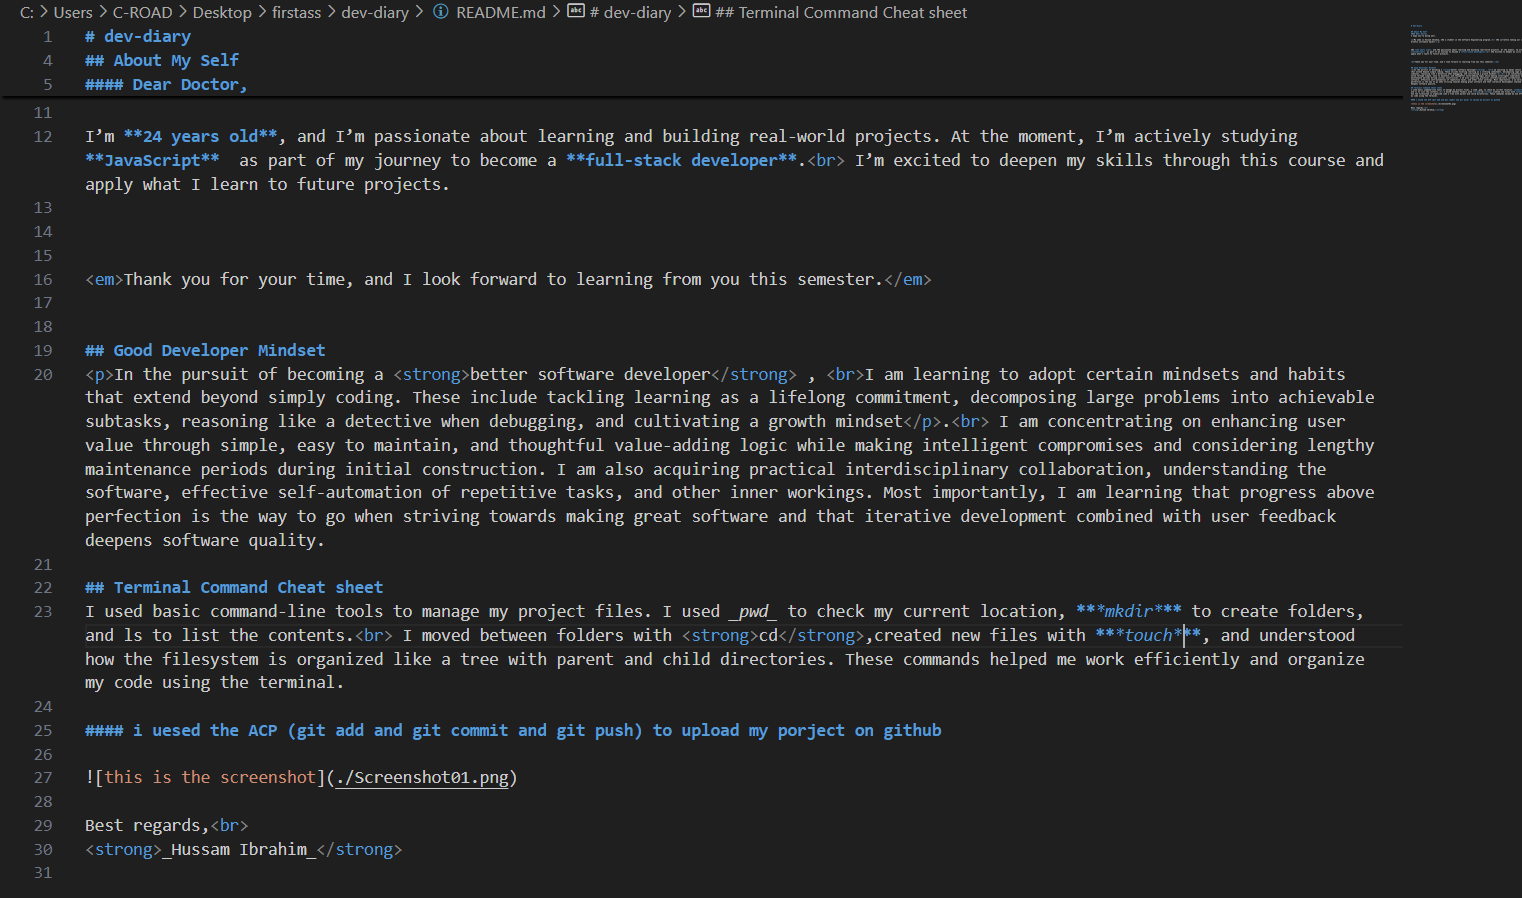
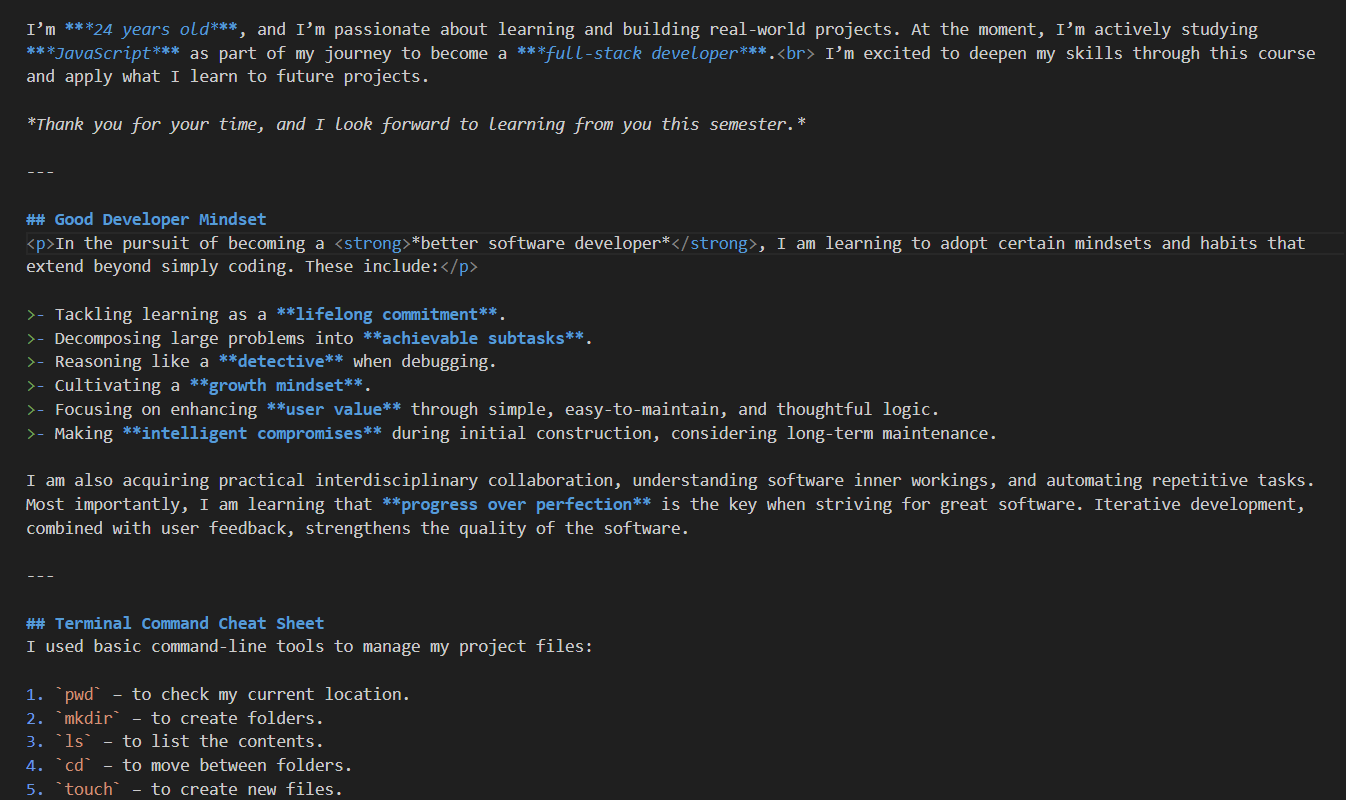
this is the resubmit

Changed region(s): [[0.0, 0.375, 0.9673, 1.0], [0.0, 0.0, 1.0, 0.2188], [0.0, 0.25, 0.9673, 0.3438]]

diff --git a/README.md b/README.md
@@ -13,7 +13,7 @@ I’m ***24 years old***, and I’m passionate about learning and building real-
 ---
 
 ## Good Developer Mindset
-<p>In the pursuit of becoming a <strong>better software developer</strong>, I am learning to adopt certain mindsets and habits that extend beyond simply coding. These include:</p>
+<p>In the pursuit of becoming a <strong>*better software developer*</strong>, I am learning to adopt certain mindsets and habits that extend beyond simply coding. These include:</p>
 
 >- Tackling learning as a **lifelong commitment**.
 >- Decomposing large problems into **achievable subtasks**.
@@ -55,6 +55,7 @@ _Screenshot of the project._
 
 #### Markdown Formatting Example
 ![This is the markdown formatting](Screenshot02.png)  
+![This is the markdown formatting](Screenshot03.png)  
 _Screenshot showing how markdown is formatted._
 
 ---
